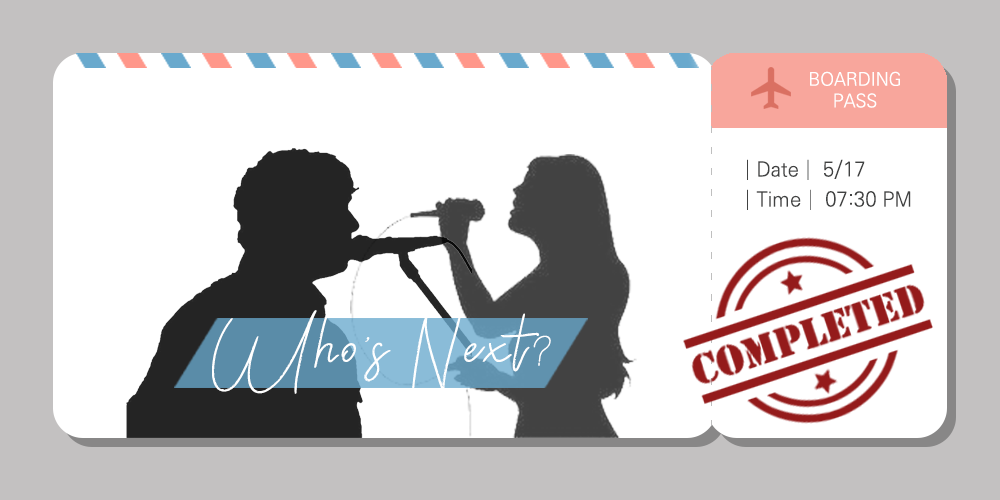
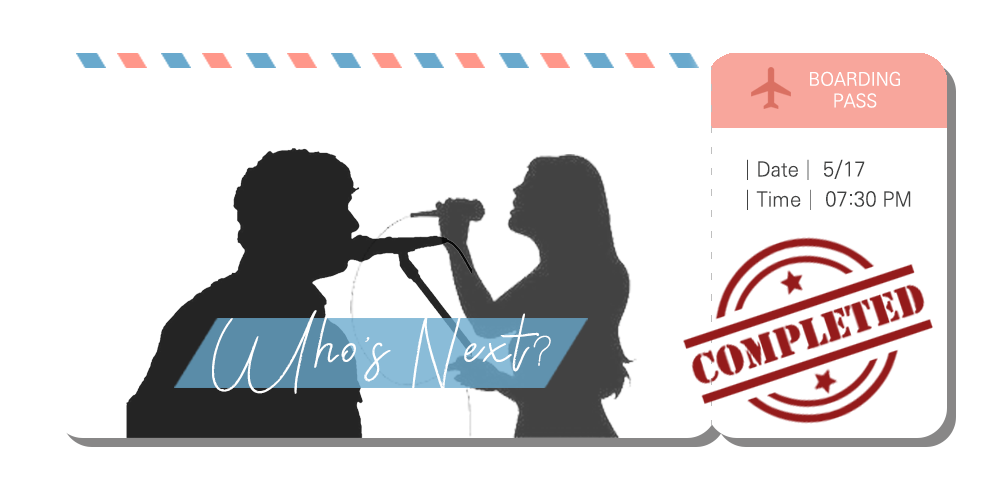
img change

Changed region(s): [[0.0, 0.0, 1.0, 1.0]]

diff --git a/sgfestival/templates/main.html b/sgfestival/templates/main.html
@@ -6,6 +6,10 @@
 			height: 100%;
 			background-color: #b0c9f1;
 		}
+        .two-page {
+            height: 100%;
+            background-color: #d3d3d3;
+        }
 		#title, #note, #menu {
 			width: 100%;
 		}
@@ -46,6 +50,10 @@
             margin: 0;
             padding-top: 20%;
         }
+        .singer1, .singer2, .singer3 {
+            width: 95%;
+            margin-right: 5%;
+        }
 	</style>
 
 </head>
@@ -65,5 +73,11 @@
 		<a class="icon4" href="게임"></a>
 	</div>
 	</section>
+    <section class="two-page">
+        <h1 style="font-size: 100px;">공연 라인업<h1>
+        <img id="singer1" src="{% static '/image/dynamicduo.png' %}">
+        <img id="singer2" src="{% static '/image/idle.png' %}">
+        <img id="singer3" src="{% static '/image/whosnext.png' %}">
+    </section>
 </body>
 </html>
